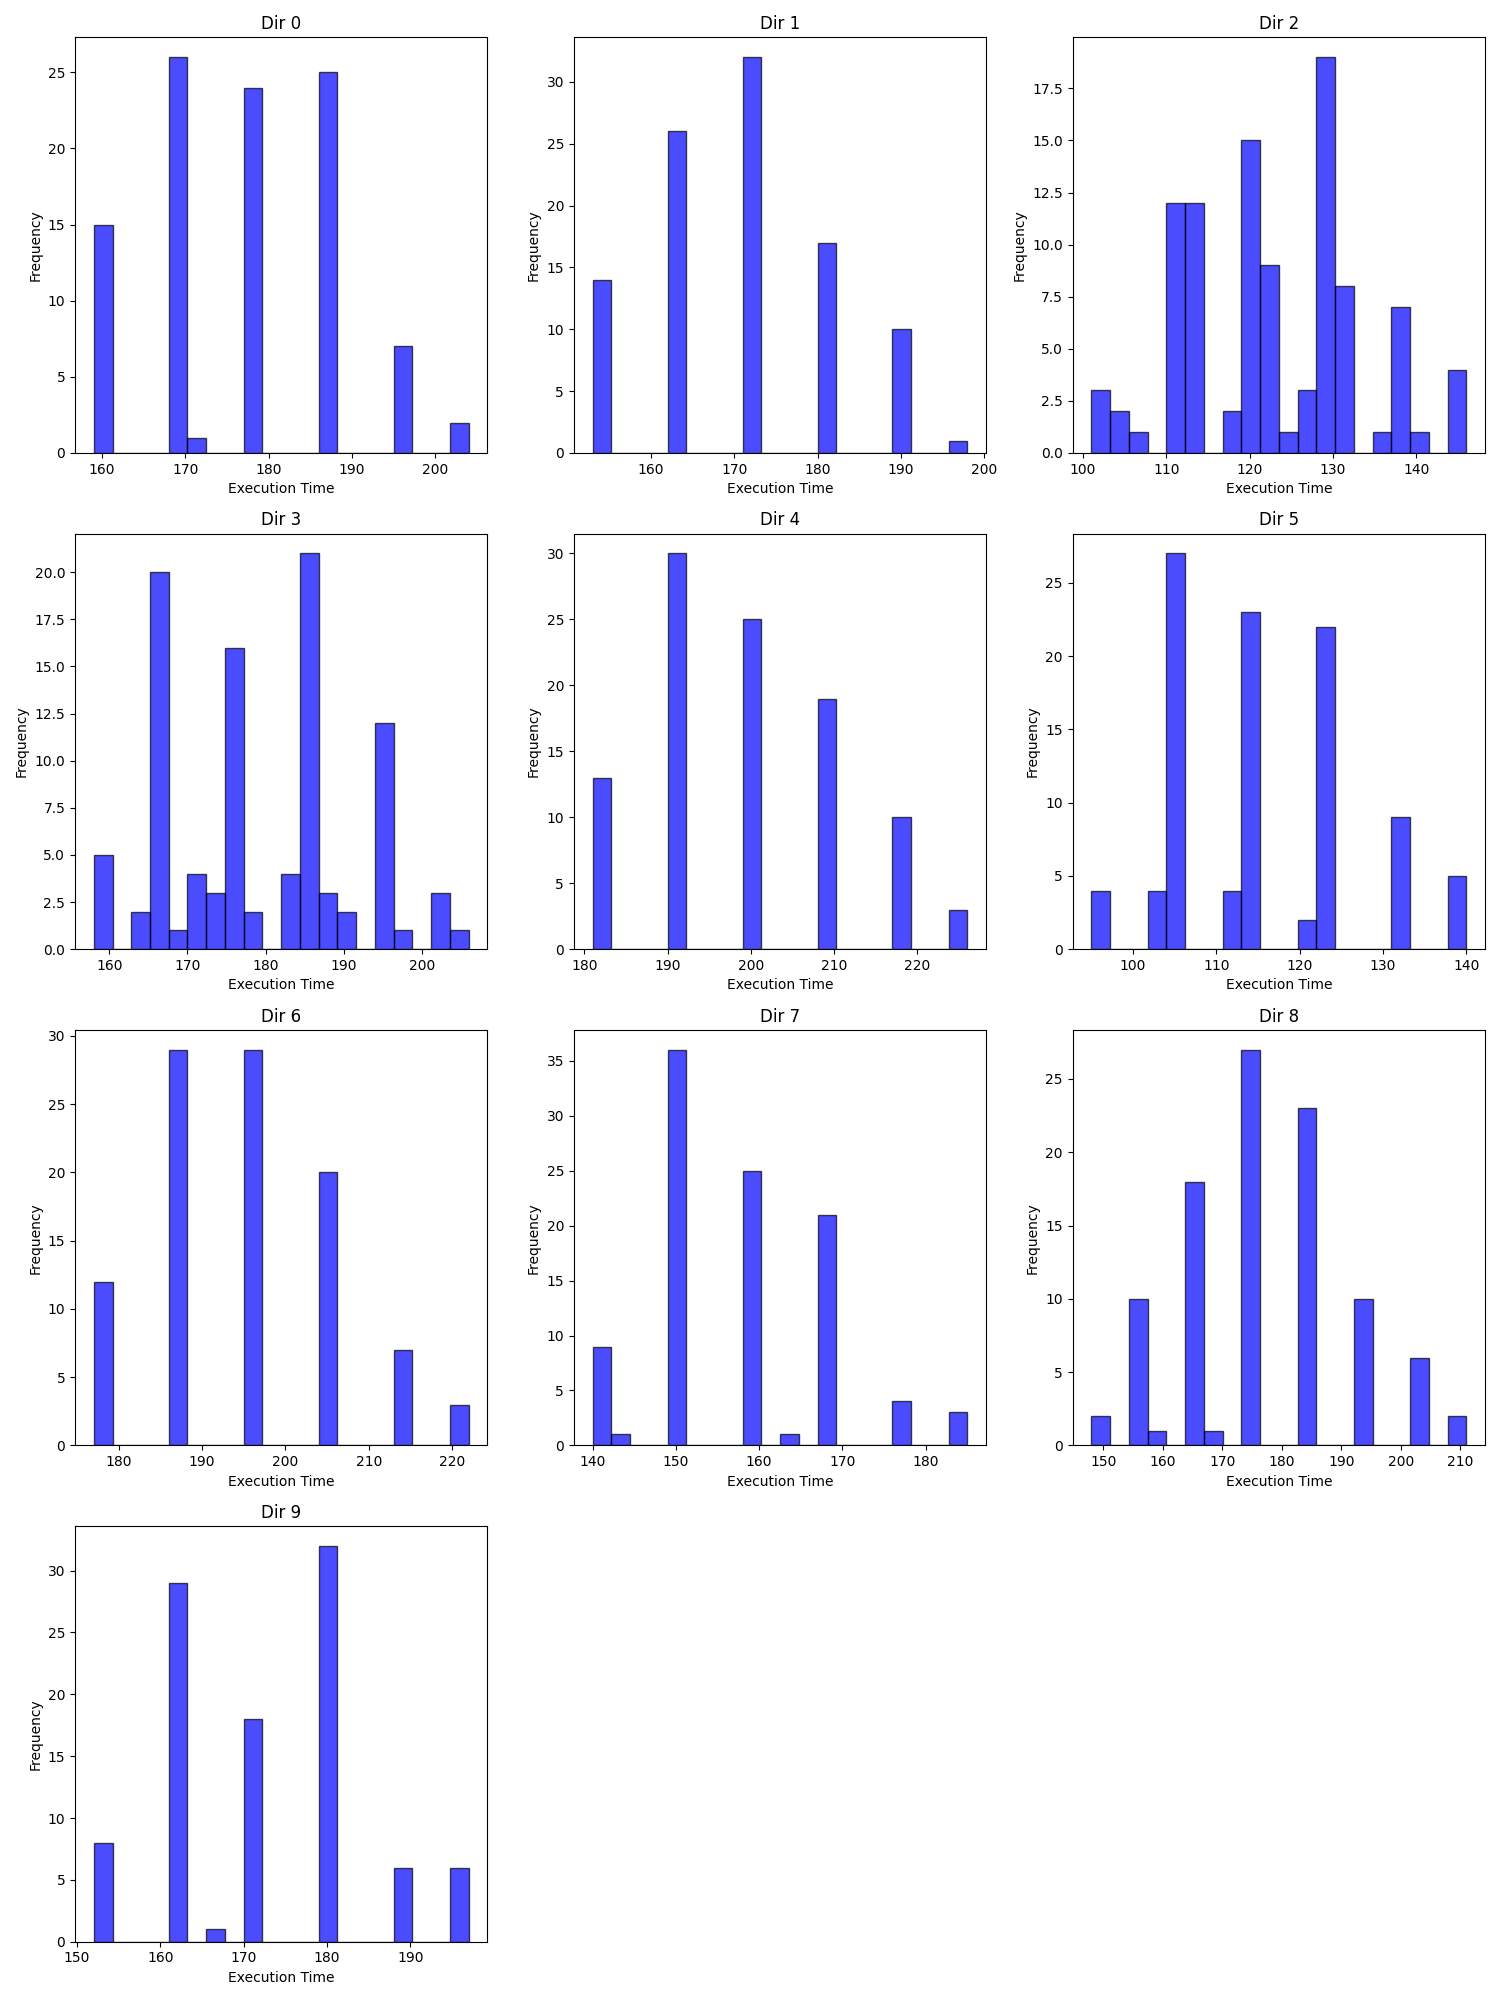
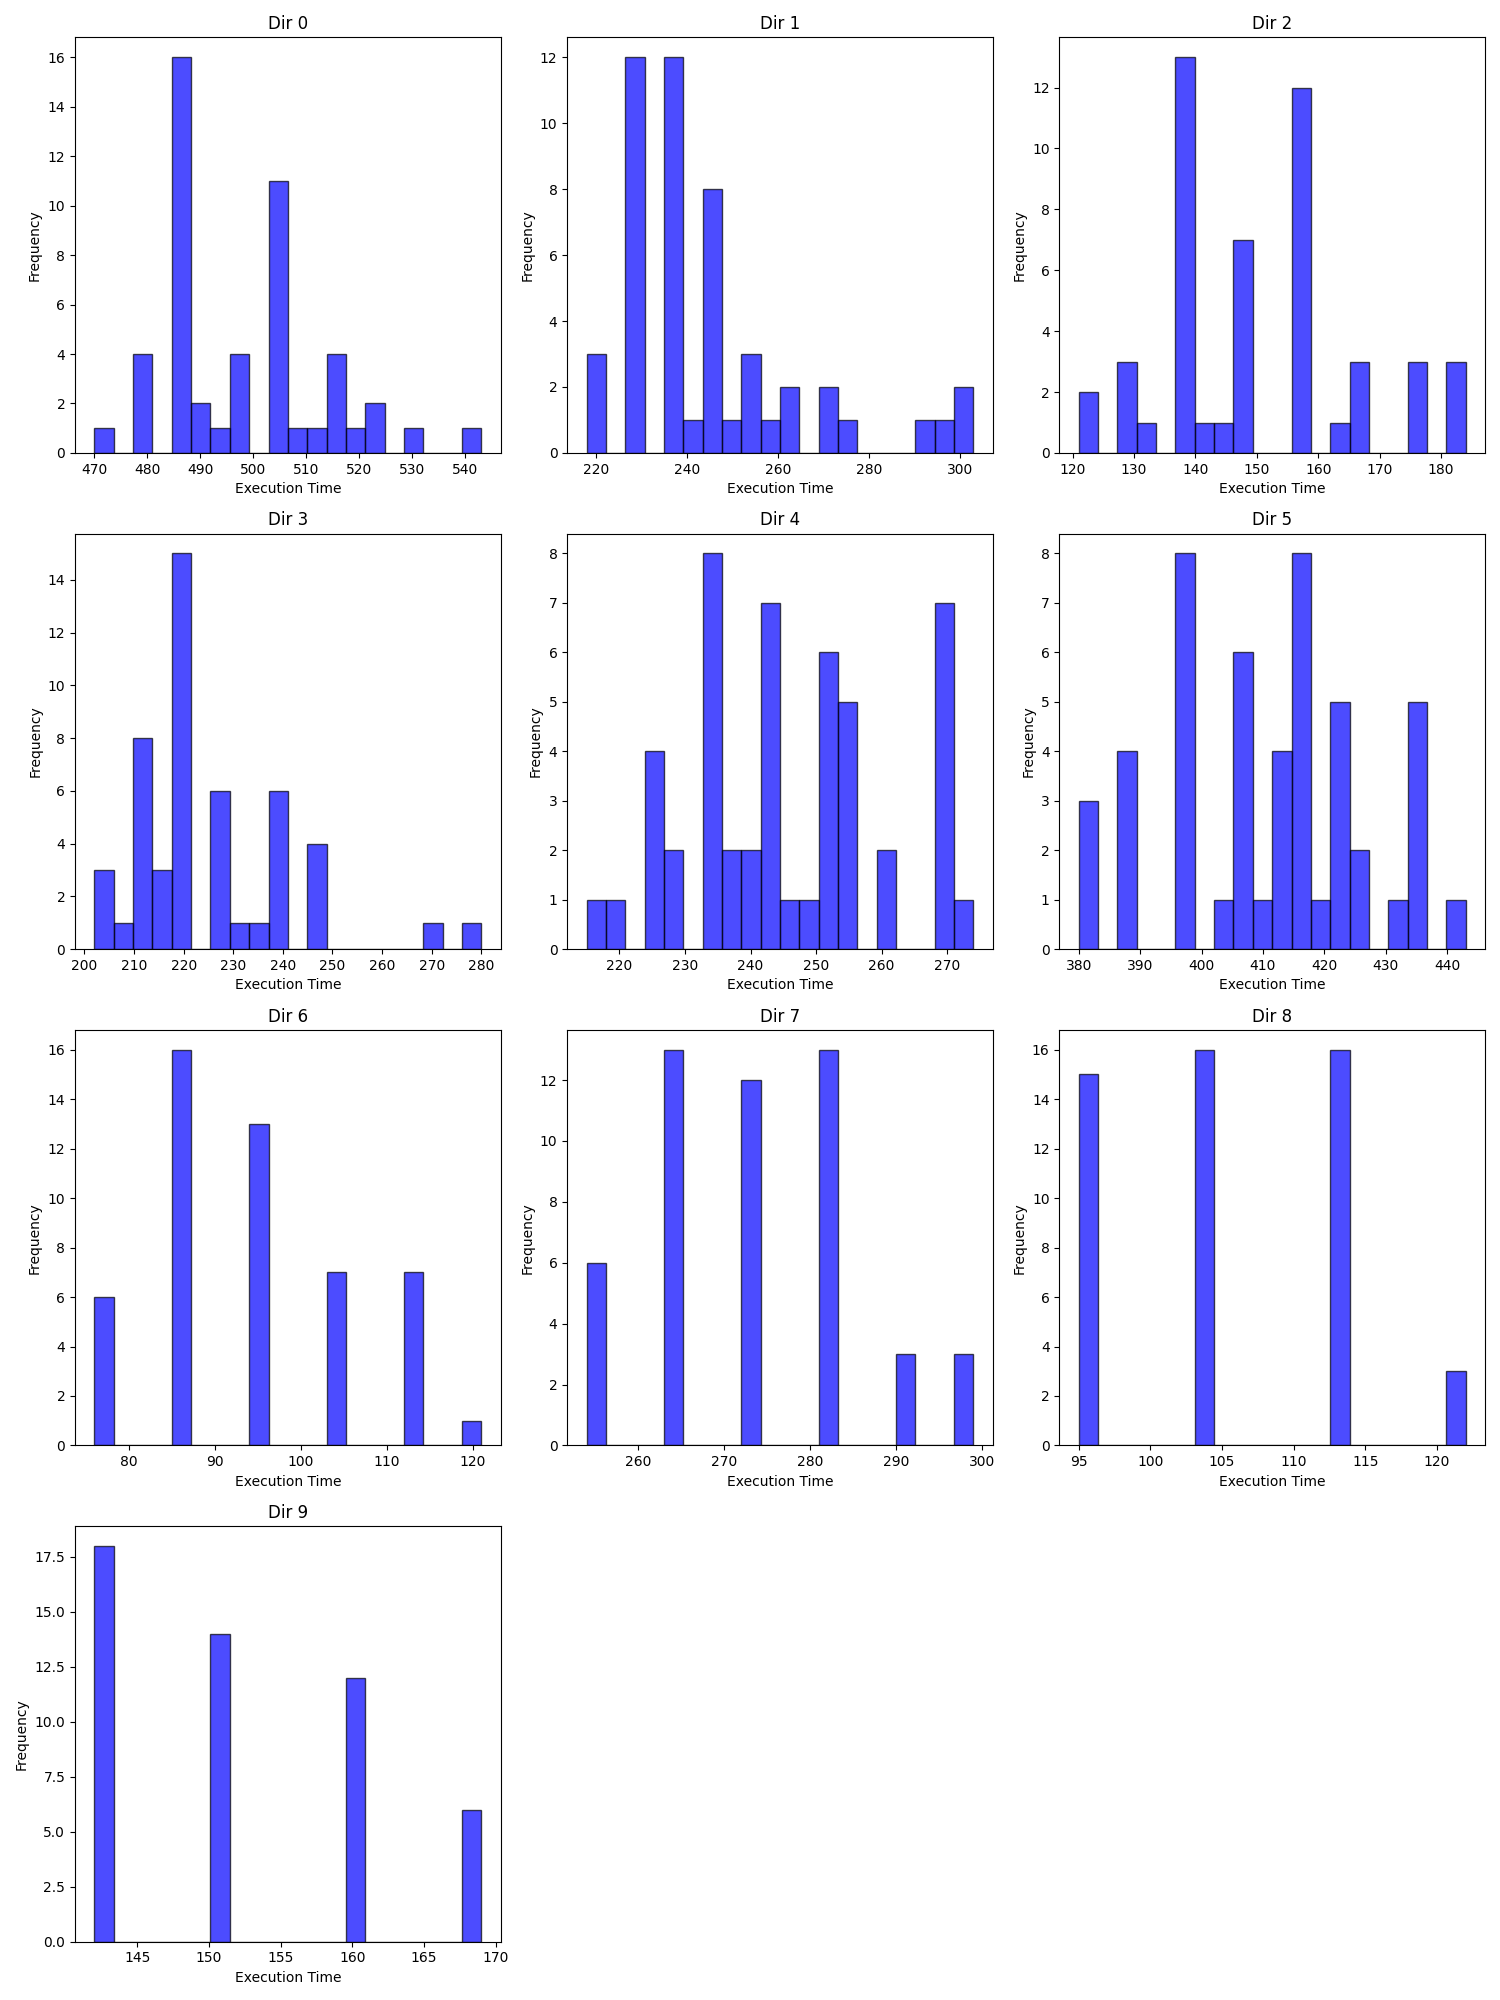
new training data for with_network

diff --git a/data/data_gen_with_network.py b/data/data_gen_with_network.py
@@ -1,15 +1,23 @@
 
-import numpy    as np
+import yaml
 import shutil
+import numpy    as np
 
-from src.simulator              import Simulator
-from src.utils                  import get_mesh_network
-from data.utils                 import save_graph_to_json, visualize_application, generate_graph, modify_graph_to_application_graph
+from src.simulator import Simulator
+from src.utils     import get_mesh_network
+from data.utils    import ( save_graph_to_json, 
+                            visualize_application, 
+                            generate_graph, 
+                            modify_graph_to_application_graph )
+
+PARAMS = yaml.safe_load(open("training/config/params_with_network.yaml"))  
 
 def simulate(num_nodes: int, map_count : int = 1) -> list: 
 
-    graph       = generate_graph(num_nodes)
-    graph       = modify_graph_to_application_graph(graph)
+    graph = generate_graph(num_nodes)
+    graph = modify_graph_to_application_graph( graph, 
+                                               ( PARAMS['MIN_GENERATE'] ,        PARAMS['MAX_GENERATE'] ), 
+                                               ( PARAMS['MIN_PROCESSING_TIME'] , PARAMS['MAX_PROCESSING_TIME'] ) )
 
     debug_mode  = False 
     if debug_mode: visualize_application(graph)
@@ -17,13 +25,12 @@ def simulate(num_nodes: int, map_count : int = 1) -> list:
     graph_list = []
     for i in range(map_count): 
 
-        sim             = Simulator(
-                            num_rows=3, 
-                            num_cols=3, 
-                            debug_mode=debug_mode)
+        sim = Simulator( num_rows=3, 
+                         num_cols=3, 
+                         debug_mode=debug_mode )
 
-        task_list       = sim.graph_to_task(graph)
-        mapping_list    = sim.get_random_mapping(task_list)
+        task_list    = sim.graph_to_task(graph)
+        mapping_list = sim.get_random_mapping(task_list)
 
         sim.map(mapping_list)
         sim.run()
@@ -41,16 +48,15 @@ if __name__ == "__main__":
 
     random.seed(0)
 
-    test_split          = 400
-    training_data_count = 12000
-    maps_per_graph      = 1
+    test_split          = 400       # 400
+    training_data_count = 12000     # 12000
     training_graphs     = []
     node_range          = (2, 6)
 
     # Simulating
     for i in range(training_data_count): 
         nodes           = random.randint(*node_range)
-        graph_list      = simulate(nodes, map_count=maps_per_graph)
+        graph_list      = simulate(nodes, map_count=1)
         training_graphs.extend(graph_list)  
         print( f"\rCreating Graph {i*len(graph_list)}", end='', flush=True )
 
@@ -76,22 +82,25 @@ if __name__ == "__main__":
     for i, graph in enumerate(training_graphs): 
         save_graph_to_json(graph, os.path.join(traing_data_dir, f"{i}.json"))
 
-    # Creating data for mapping test metric 
-    map_test_dir    = os.path.join("data", "training_data", "simulator", "map_test")
+    # # Creating data for mapping test metric 
+    map_test_dir    = os.path.join("data", "training_data", "with_network", "map_test")
     if os.path.exists(map_test_dir): 
         shutil.rmtree(map_test_dir)
 
     os.makedirs(map_test_dir)
 
     num_metric_graph        = 10
-    metric_maps_per_graph   = 100
+    metric_maps_per_graph   = 50
     count                   = 0
-    std_threshold           = 10    
-    map_node_range          = (3, 5)
+    std_threshold           = 15    
+    map_node_range          = [2, 3, 4, 5, 6]
+
+    print(f"Creating Mapping Test graphs with std threshold {std_threshold}")
+    map_count_dict = {}
 
     while count < num_metric_graph:
         
-        nodes           = random.randint(*map_node_range)
+        nodes           = random.choice(map_node_range)
         map_graph_list  = simulate(nodes, map_count=metric_maps_per_graph)
 
         latency_list = []
@@ -109,19 +118,32 @@ if __name__ == "__main__":
         num_nodes = len(map_graph_list[0].nodes) - 18
 
         std = np.std(latency_list)
-
-        # print(f"Std: {std}")
+        latency_range = max(latency_list) - min(latency_list)   
+        print( f"\rStd: \t{std}, num_nodes \t{num_nodes}", end='', flush=False ) 
         if std > std_threshold:
             dir     = os.path.join(map_test_dir, f"{count}")
 
+            if nodes not in map_count_dict: 
+                map_count_dict[nodes] = 0
+            else: 
+                map_count_dict[nodes] += 1
+                if map_count_dict[nodes] >= 1: 
+                    map_node_range.remove(nodes)
+                    print(f"\nRemoving {nodes} from map_node_range")
+                    if len(map_node_range) == 2:
+                        std_threshold = 11
+                        print(f"Changing std threshold to {std_threshold}")
+                    elif len(map_node_range) == 1:
+                        std_threshold = 8
+                        print(f"Changing std threshold to {std_threshold}")
+
             if not os.path.exists(dir): 
-                
                 os.makedirs(dir)
 
             for j, graph in enumerate(map_graph_list):
                 save_graph_to_json(graph, os.path.join(dir, f"{j}.json"))
 
-            print( f"\rCreating Mapping Test graph {count}, std {std}, num_nodes {num_nodes}", end='', flush=True )
+            print( f"\nCreating Mapping Test graph {count}" )
             count   += 1
 
     print()

diff --git a/data/utils.py b/data/utils.py
@@ -61,27 +61,47 @@ def generate_graph(num_nodes: int):
     return random.choice(graph_generator)()
 
 
-def modify_graph_to_application_graph(graph: nx.DiGraph):
+def modify_graph_to_application_graph(graph: nx.DiGraph, generate_range: tuple, processing_time_range: tuple):
     """
     Adds weight attribute to the edges of the graph.
     Adds processing_time attribute to the nodes of the graph.
     Sum of the successor weights is assigned as generate attribute to the node.
+    Args: 
+        generate_range: tuple, range of generate values assigned to edges
+        processing_time_range: tuple, range of processing time values   
     """
     for node in graph.nodes:
-        processing_time = random.randint(5, 10)
-        graph.nodes[node]["processing_time"] = processing_time
-        successors = list(graph.successors(node))
+        processing_time                         = random.randint(*processing_time_range)
+        graph.nodes[node]["processing_time"]    = processing_time
         
+        successors = list(graph.successors(node))
         generate_count = 0
         for successor in successors:
-            edge_weight = random.randint(1, 5)
+            edge_weight = random.randint(*generate_range)
             graph[node][successor]["weight"] = edge_weight
             generate_count += edge_weight
         graph.nodes[node]["generate"] = generate_count
 
-        final_node_generate_count = random.randint(1, 5)
         if len(successors) == 0:
+            final_node_generate_count = random.randint(1, 5)
             graph.nodes[node]["generate"] = final_node_generate_count
+
+        predecessors = list(graph.predecessors(node))
+
+        if len(predecessors) == 0:
+            # Assigning the node's with no incoming edges as dependency nodes
+            graph.nodes[node]["type"] = "dependency"
+
+        else: 
+            graph.nodes[node]["type"] = "task"
+
+    for node in graph.nodes: 
+
+        predecessors = list(graph.predecessors(node))
+        for predecessor in predecessors: 
+            if graph.nodes[predecessor]["type"] == "dependency":
+                graph.nodes[node]["type"] = "task_depend"
+                break
 
     return graph
 

diff --git a/src/utils.py b/src/utils.py
@@ -286,6 +286,7 @@ def get_mesh_network(mesh_size: int, application_graph: nx.DiGraph, mapping_list
                 graph.add_node(
                     task_id, 
                     type            = "task", 
+                    task_type       = application_graph.nodes[task_id]["type"],  
                     generate        = map_.task.expected_generated_packets, 
                     processing_time = map_.task.processing_cycles, 
                     start_cycle     = map_.task.start_cycle, 

diff --git a/data/data_gen_without_network.py b/data/data_gen_without_network.py
@@ -12,7 +12,7 @@ from data.utils import ( update_graph_with_computing_list,
                          modify_graph_to_task_graph, 
                          create_and_clear_dir )
 
-PARAMS = yaml.safe_load(open("training/params_without_network.yaml"))
+PARAMS = yaml.safe_load(open("training/config/params_without_network.yaml"))
 
 def simulate(num_nodes: int, debug_mode: bool, sjf_scheduling: bool ): 
 
